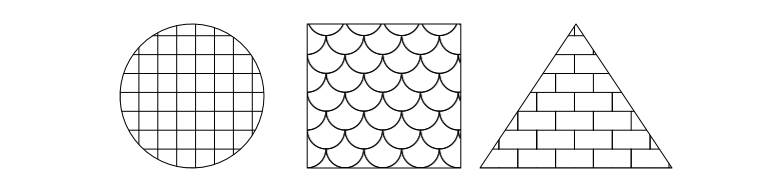
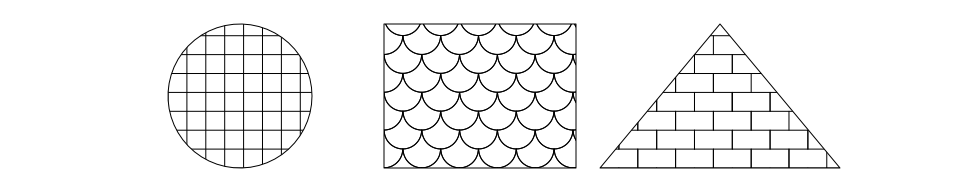
swatches in 5x3 grid

diff --git a/README.md b/README.md
@@ -81,8 +81,6 @@ or
 
 ![](man/figures/README-unnamed-chunk-5-1.png)<!-- -->
 
-Use `"empty"` for a plain background with no pattern lines.
-
 ## Modified Patterns
 
 For each basic pattern, you can specify the foreground color, background
